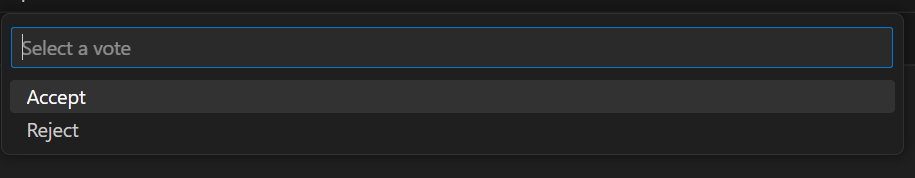
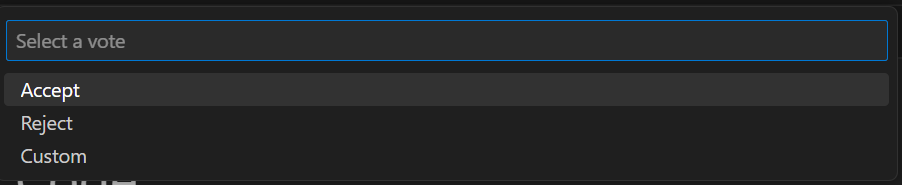
update

diff --git a/README.md b/README.md
@@ -24,7 +24,7 @@ Use MCCF functions to quickly create the development environment with all necess
 
 ![Here there are 5 options displayed that appear after choosing to create a CCF app environment.](images/choose_template.png)
 
-3. After choosing your template, the application will open in a development container with all of the necessary dependencies where the app will be ready for network initialization.
+3. After choosing your template, users are prompted to choose the destination folder where the application opens in a development container, with all necessary dependencies, ready for network initialization.
 
    > The feature allows users to run and build the CCF app in its development container with ease. Users can choose between already existing CCF apps' templates that already have the files and dependencies installed. 
 
@@ -61,13 +61,13 @@ Activate a network with one node and member to start a network all from docker *
 
 2. When choosing a project folder, ensure that you are in the root folder of your project workspace:![Alt text](images/image.png)
 
-After starting the network in a Docker Container, your output should look similar to the following output:
+After starting the network in a Docker Container, your output should look similar to the following :
 
 ![Alt text](images/image-2.png)
 
 > TIP: Always double-check your current directory selection. If you're not in the right place, these commands may not execute as expected.
 
-## Adding New  Members 
+## Adding New  Members or Users
 
 - ### GENERATE MEMBER IDENTITY 
 The Generate Identity Keys creates all of the certificates necessary to add members and users to an MCCF network and ensures that all IDs are unique. After entering a unique key identifying name, the user will be prompted to select the folder where they would like to store their keys within the file system.
@@ -115,7 +115,7 @@ The generate member proposal allows for the developer to easily generate member 
 ![Alt text](images/image_sp.png)
 
 - ### VOTE ON A PROPOSAL  
-This feature allows the developer to easily vote on a proposal to add a user to a network. The certificate and signing keys are the authorization member's certificates.
+This feature allows the developer to easily vote on a proposal to add a user to a network via the certificate/key of the member(s) of the network. The certificate and signing keys are the authorization member's certificates.
 
 1. Enter the network URL and select a ballot.
 ![Alt text](images/image_ballot.png)
@@ -123,6 +123,8 @@ This feature allows the developer to easily vote on a proposal to add a user to 
 
 2. Select a vote.
 ![Alt text](images/image_vote.png)
+
+> The custom option allows users to choose their specific ballot from their files.
 
 
 ## Create an MCCF Instance
@@ -143,6 +145,8 @@ Users can create instances based on their specific preferences which require the
 2. Select the specific resource group which allows the extension to display various instances in that resource group and their specified details.
 
 ![Alt text](images/image4.png)
+
+**3. Select any instance of your choosing
 
 ## Creating an Application Bundle
 
